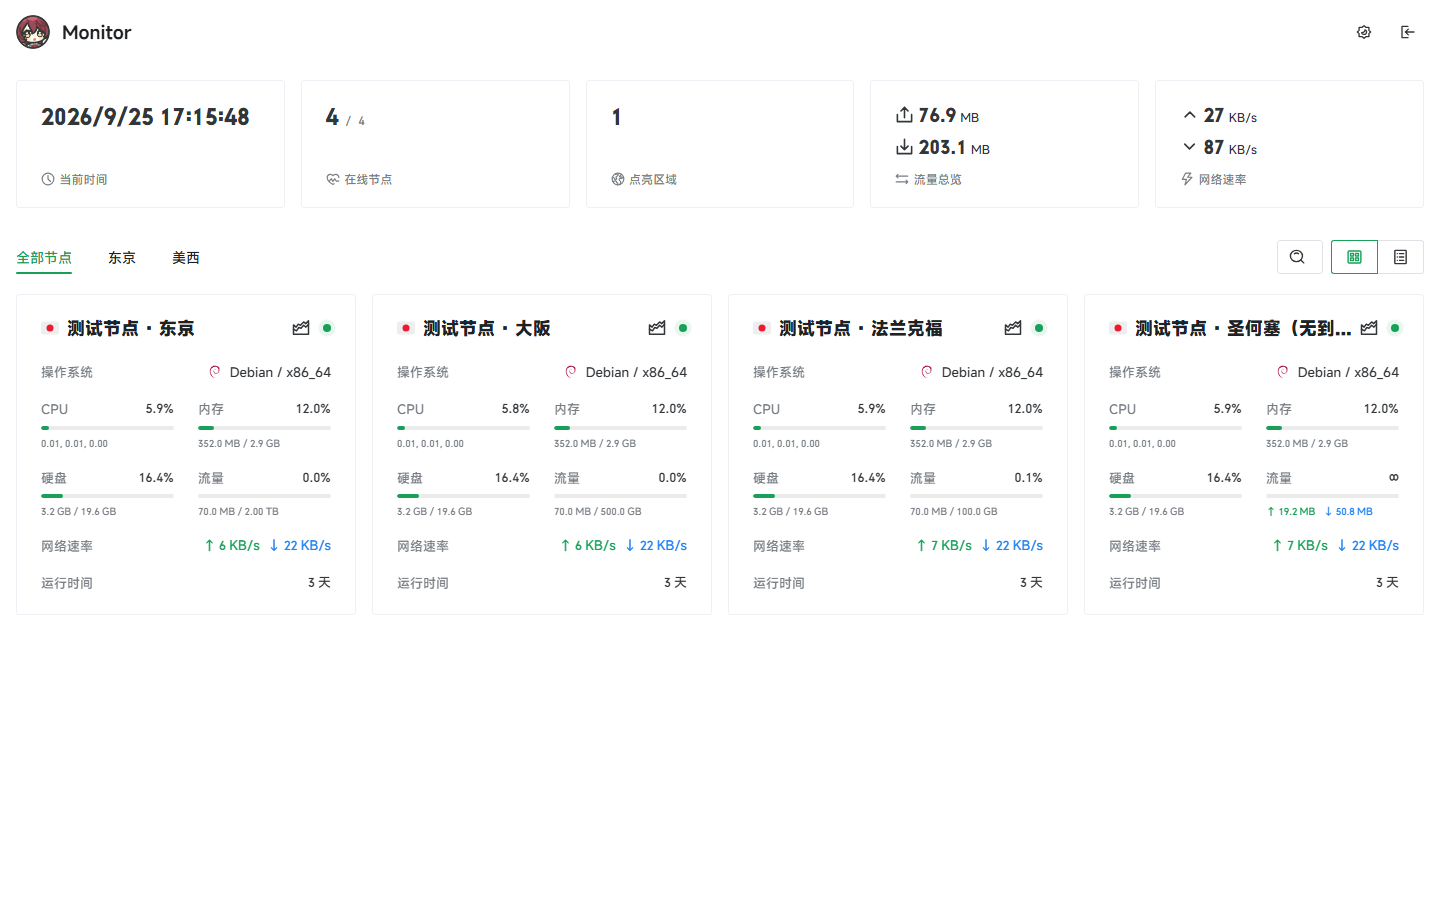
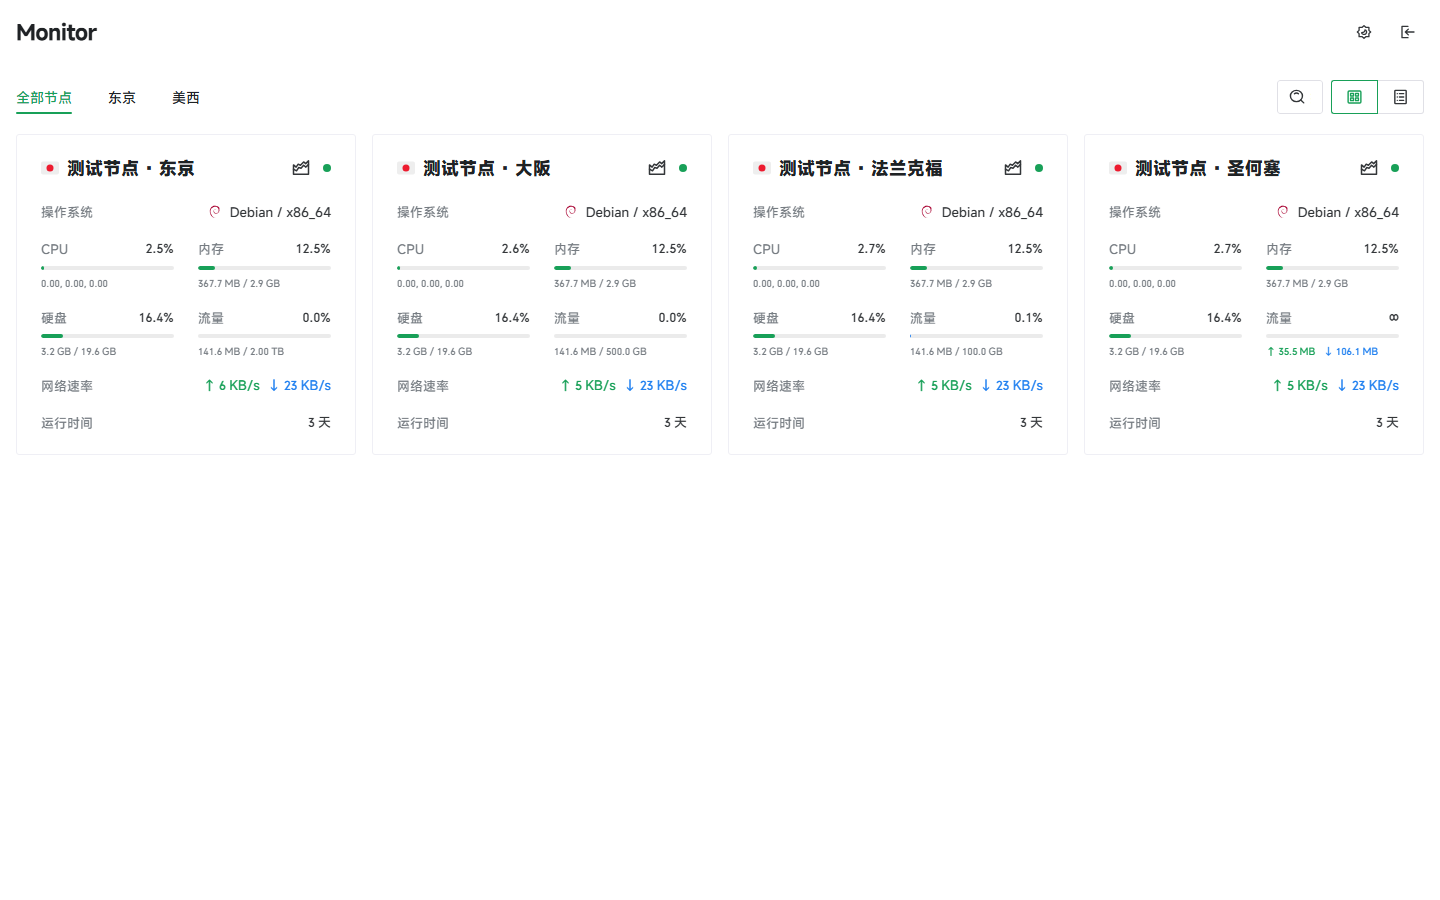
Refresh preview image
preview.png 换成当前默认外观的首页截图（无数据总览行、页头无图标）；版本 1.0.7。

diff --git a/README.md b/README.md
@@ -16,6 +16,7 @@
 
 ## 更新
 
+- `preview.png` 换成当前默认外观的首页截图（无数据总览行、页头无图标）。
 - 首页默认不显示数据总览那一行（后台「显示数据总览」仍可打开）。
 - 页头只保留站点名，站点图标改用极简探针默认图标（不再使用原主题自带的图标）。
 
